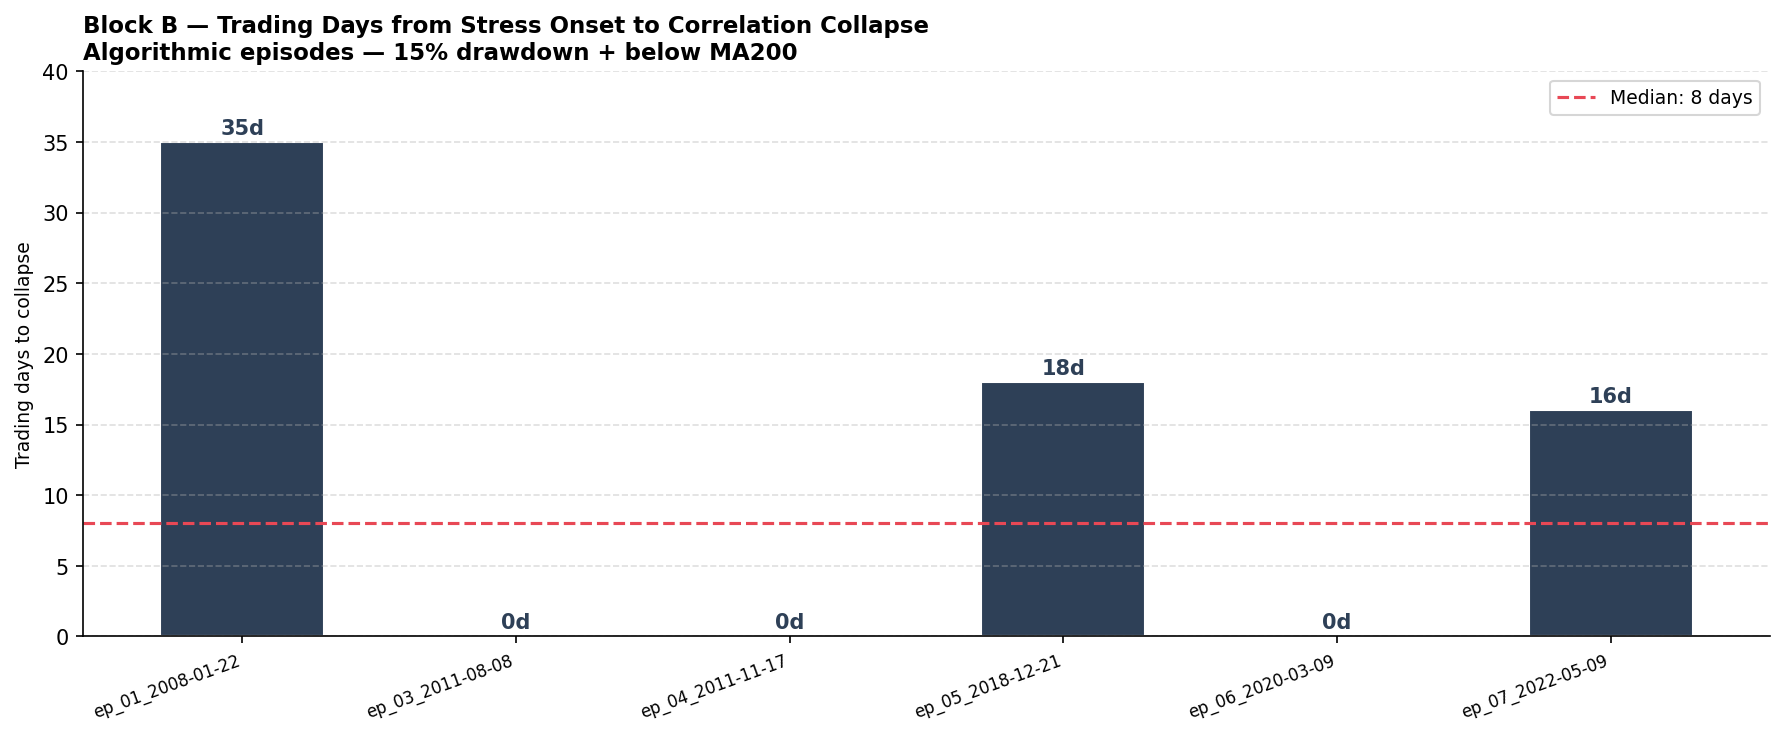
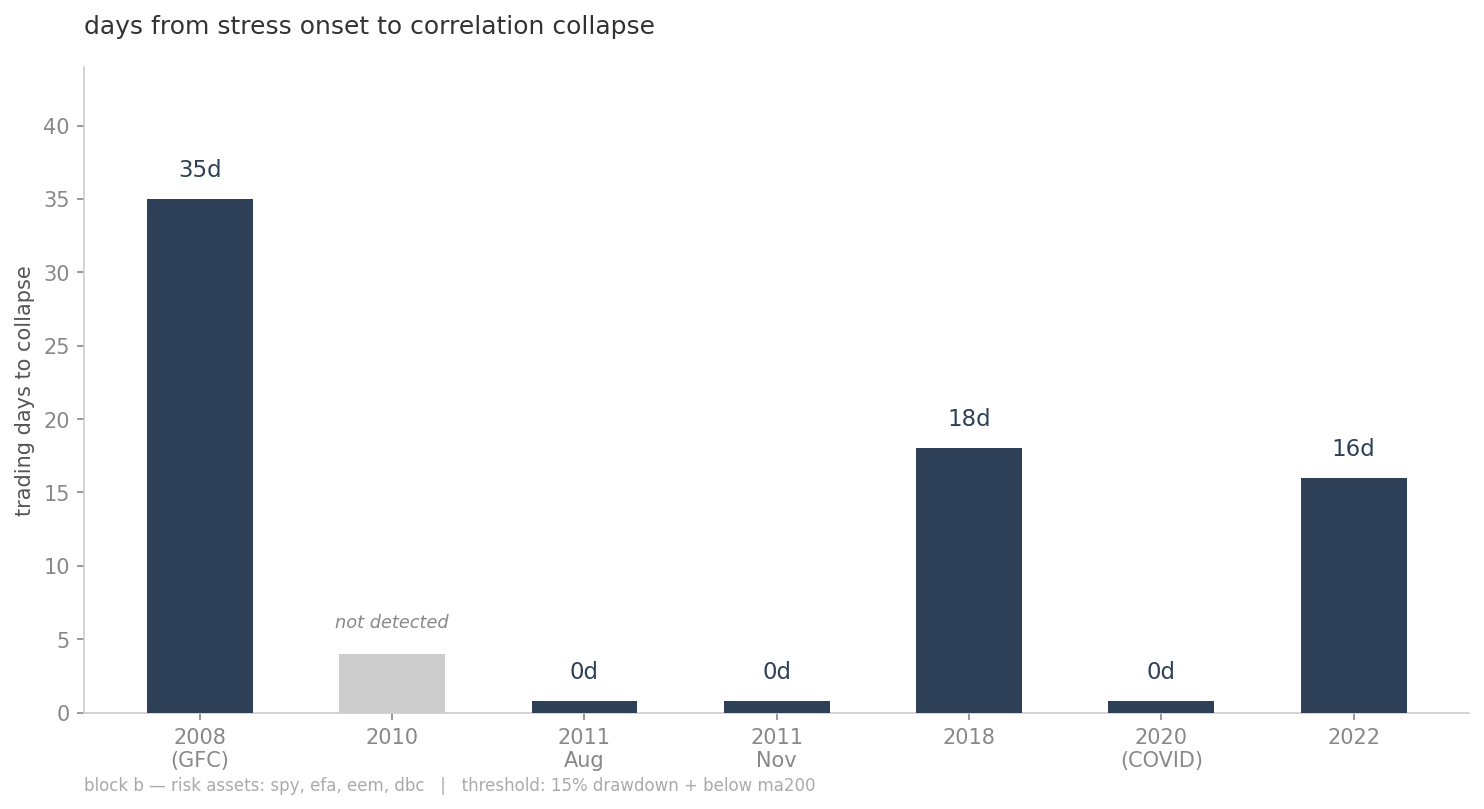
update: replace median with distribution description, update speed chart

diff --git a/README.md b/README.md
@@ -22,7 +22,7 @@ Two limitations of this choice are worth stating before the results, because the
 
 ## The Finding
 
-In stress episodes defined by a formal drawdown criterion, the average pairwise correlation among risk assets crosses its historical 90th percentile threshold within a **median of 8 trading days across 6 detected episodes**. In several episodes, the collapse had already occurred before the stress signal was detected.
+In stress episodes defined by a formal drawdown criterion, the average pairwise correlation among risk assets crosses its historical 90th percentile threshold rapidly. In 3 of 6 detected episodes, the collapse had already occurred before the stress signal was detected. In the remaining 3 episodes, collapse occurred within 16, 18, and 35 trading days of stress onset.
 
 | Episode | Onset | Days to Collapse |
 |---|---|---|
@@ -93,7 +93,7 @@ Episodes with identical onset dates appear in both blocks, enabling direct cross
 - Tested on Block B only — Block A has only 1 risk asset (SPX), making pairwise correlation among risk assets uncomputable.
 
 **H2 — When stress is observable, correlation collapse has already occurred or occurs within days**
-- Block B: median 8 days across 6 detected episodes. Maximum: 35 days.
+- Block B: 3 of 6 detected episodes collapsed before the stress signal fired (0 days). The remaining 3 episodes: 16, 18, and 35 trading days. No episode gave sufficient time for institutional repositioning.
 - 3 of the 6 detected episodes had collapse at onset (0 days) — correlation was already elevated when the stress signal fired.
 - Result stable across threshold percentiles p80–p95 (Section 5.6).
 
@@ -119,7 +119,7 @@ Red shading marks algorithmic stress episodes. The dashed line is the normal-reg
 - Note: H4 was significant with manually selected episodes but is not significant with algorithmically defined episodes. This raises a legitimate question about whether the earlier result reflected the specific characteristics of famous crises rather than a general pattern. The null result with algorithmic episodes is the more credible finding.
 
 **H5 — Universe expansion does not prevent or meaningfully delay collapse**
-- H5 is primarily supported by Block B internal evidence: 7 assets collapsed in a median of 8 days across detected episodes. No portfolio can be repositioned in 8 trading days regardless of how many assets it contains.
+- H5 is primarily supported by Block B internal evidence: 7 assets collapsed across all detected episodes — in 3 cases before the stress signal fired, and in the remaining 3 within 16, 18, and 35 trading days. No portfolio can be repositioned within that window regardless of how many assets it contains.
 - The cross-block comparison between Block A and Block B is limited by metric heterogeneity. Block A measures full-universe correlation (SPX + Treasury + DXY); Block B measures risk-asset-only correlation (SPY, EFA, EEM, DBC). These are not directly comparable. The only episode where both blocks produce a valid, comparable result is 2011 (Block A: 1 day, Block B: 0 days) — one episode is insufficient to sustain a cross-block inference.
 - GFC comparison (Block A: 8 days, Block B: 35 days) is reported for transparency but reflects metric heterogeneity, not a genuine advantage of the smaller universe.
 - Conclusion: the evidence that universe expansion does not help comes from Block B's own internal consistency across 7 episodes — not from formal cross-block comparison.
